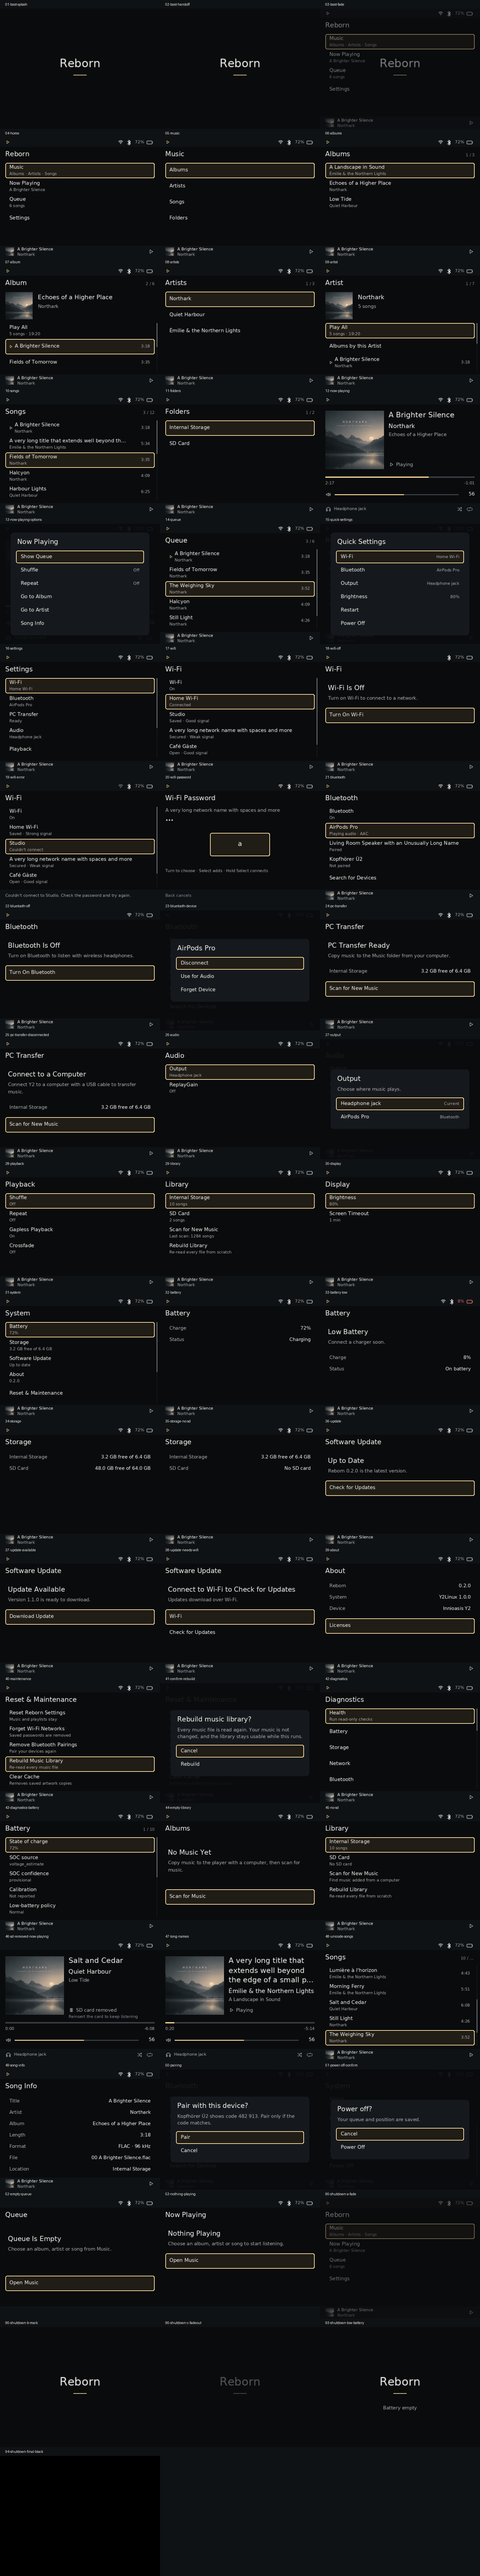
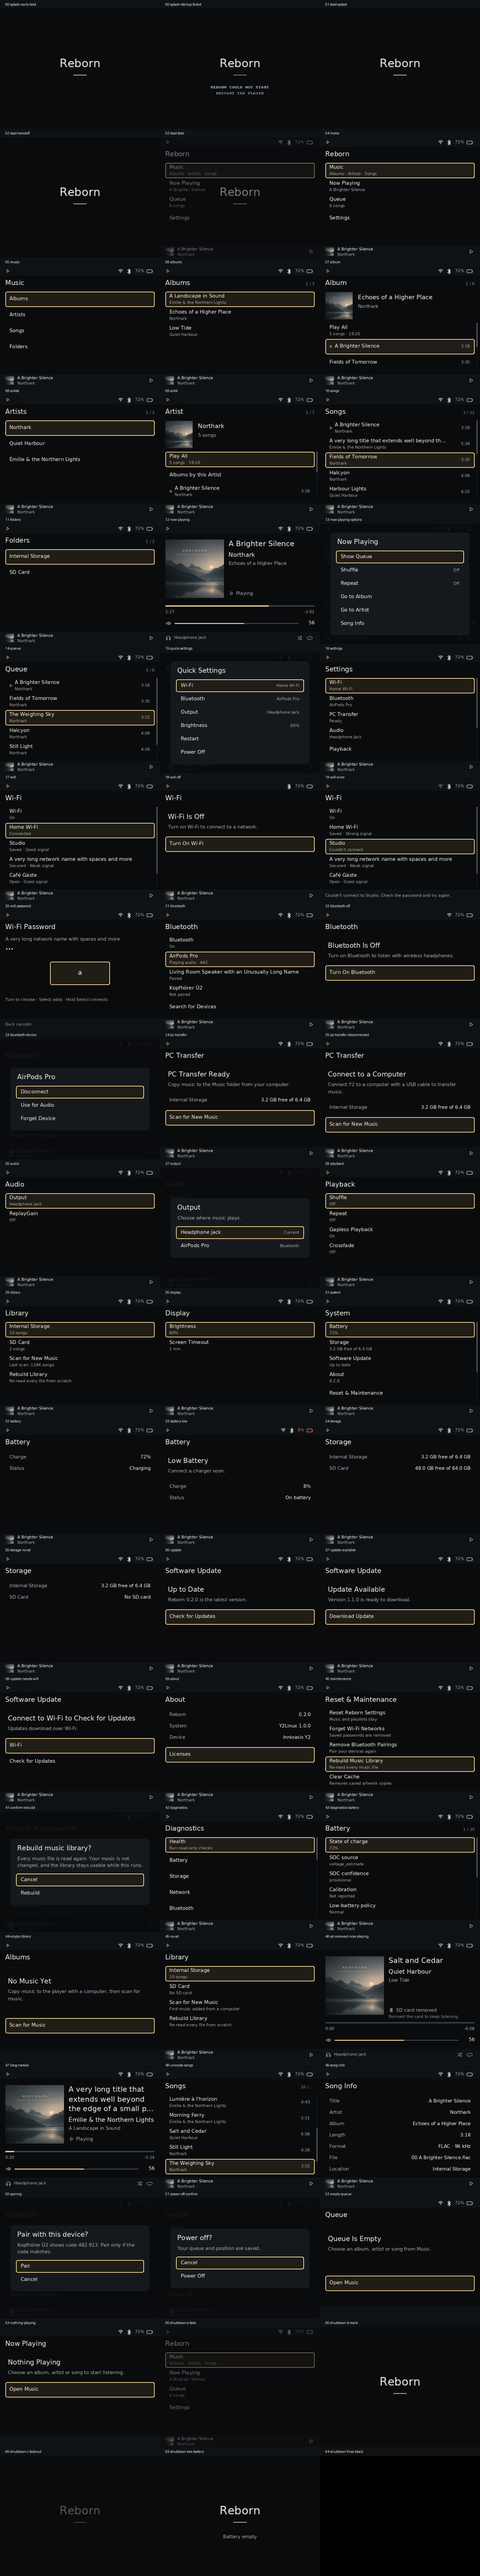
Name the remaining empty states instead of calling them unavailable
"Music Storage Unavailable" becomes "Can't Read Your Music" and a missing
song is "Song Not Found". Product-surface tests now cover every empty
library state and the missing-song page, and the candidate test checks the
committed 480x360 v2 previews.

diff --git a/crates/reborn-ui/src/tests.rs b/crates/reborn-ui/src/tests.rs
@@ -269,8 +269,15 @@ fn normal_screens_never_show_engineering_terms_or_generic_unavailable() {
     let mut quick = app(Screen::Home);
     quick.navigation.modal = Some(Modal::QuickSettings);
     cases.push((Screen::Home, radios(), quick));
+    let mut missing_song = app(Screen::TrackInfo);
+    missing_song.navigation.filter = "999".into();
+    missing_song.queue.clear();
+    cases.push((Screen::TrackInfo, radios(), missing_song));
     for (screen, ui, m) in cases {
-        let text = visible_text(&ui, &m);
+        let mut text = visible_text(&ui, &m);
+        if super::screens::is_empty_catalog(&ui, &m) {
+            text += super::screens::empty_catalog_copy(&m);
+        }
         for term in ENGINEERING {
             assert!(!text.contains(term), "{screen:?} shows {term:?}: {text}");
         }
@@ -283,6 +290,24 @@ impl Ui {
             wifi: self.wifi.clone(),
             bluetooth: self.bluetooth.clone(),
             ..Default::default()
+        }
+    }
+}
+
+#[test]
+fn empty_library_states_name_the_problem_without_generic_unavailable() {
+    for setup in [
+        |m: &mut AppModel| m.sources.clear(),
+        |m: &mut AppModel| m.library.scanning = true,
+        |m: &mut AppModel| m.library.error = Some("x".into()),
+        |_: &mut AppModel| {},
+    ] {
+        let mut m = app(Screen::Albums);
+        m.library.tracks.clear();
+        setup(&mut m);
+        let copy = super::screens::empty_catalog_copy(&m);
+        for term in ENGINEERING {
+            assert!(!copy.contains(term), "{copy}");
         }
     }
 }

diff --git a/crates/reborn-ui/src/screens.rs b/crates/reborn-ui/src/screens.rs
@@ -333,6 +333,18 @@ fn list(c: &mut Canvas, ui: &Ui, m: &AppModel, tracks: &[Track], has_art: bool, 
     }
 }
 
+#[cfg(test)]
+pub(crate) fn is_empty_catalog(ui: &Ui, m: &AppModel) -> bool {
+    catalog_like(m.screen) && ui.row_count(m, &m.library.tracks) == 0
+}
+
+/// Heading and explanation of an empty list, for product-surface tests.
+#[cfg(test)]
+pub(crate) fn empty_catalog_copy(m: &AppModel) -> &'static str {
+    let (title, body, _) = empty_catalog(m);
+    Box::leak(format!("{title} {body}").into_boxed_str())
+}
+
 fn empty_catalog(m: &AppModel) -> (&'static str, &'static str, Option<&'static str>) {
     if m.screen == Screen::Queue {
         return (
@@ -353,7 +365,7 @@ fn empty_catalog(m: &AppModel) -> (&'static str, &'static str, Option<&'static s
     }
     if !m.sources.iter().any(|s| s.online) {
         return (
-            "Music Storage Unavailable",
+            "Can't Read Your Music",
             "Restart the player. If an SD card was removed, reinsert it.",
             None,
         );

diff --git a/tests/ui-candidate.py b/tests/ui-candidate.py
@@ -23,6 +23,15 @@ class Candidate(unittest.TestCase):
   self.assertGreaterEqual(len(images),60)
   for path in images:
    with Image.open(path) as image:self.assertEqual(image.size,(480,360),path.name)
+ def test_product_v2_previews_cover_the_product_at_native_resolution(self):
+  previews=root/'docs/ui/previews/v2'
+  images=[p for p in previews.glob('*.png') if p.stem!='contact-sheet']
+  self.assertGreaterEqual(len(images),60)
+  for path in images:
+   with Image.open(path) as image:self.assertEqual(image.size,(480,360),path.name)
+  names={p.stem for p in images}
+  for required in ['01-boot-splash','12-now-playing','15-quick-settings','42-diagnostics','94-shutdown-final-black']:
+   self.assertIn(required,names)
  def test_atlas_provenance_and_safe_bounds(self):
   import hashlib
   fonts=json.loads((root/'assets/fonts/provenance.json').read_text())

diff --git a/crates/reborn-ui/src/pages.rs b/crates/reborn-ui/src/pages.rs
@@ -706,7 +706,10 @@ fn track_info(m: &AppModel, tracks: &[Track]) -> Page {
         .and_then(|i| tracks.get(i))
         .or_else(|| m.current());
     let Some(t) = track else {
-        return Page::hero("Song Not Available", "It may be on a removed SD card.");
+        return Page::hero(
+            "Song Not Found",
+            "It may be on an SD card that was removed.",
+        );
     };
     let format = match (t.codec.is_empty(), t.sample_rate) {
         (true, _) => String::new(),
